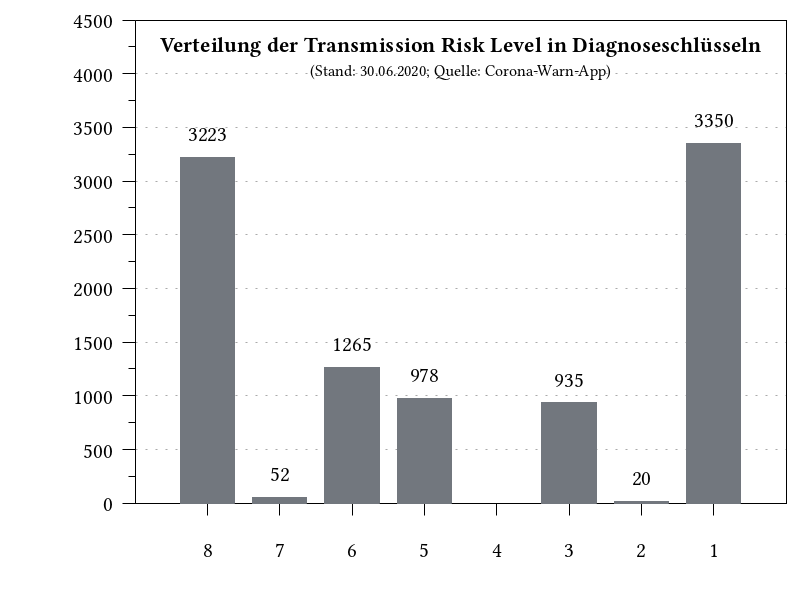
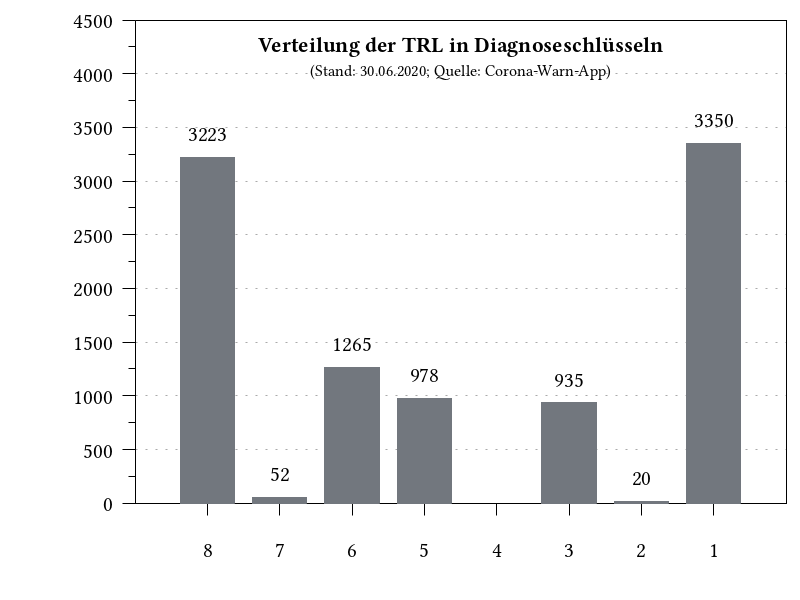
use abbreviation for TRL

Changed region(s): [[0.1875, 0.06, 0.9688, 0.09]]

diff --git a/index.html b/index.html
@@ -35,7 +35,7 @@
          <img src="/dka/plot_keys_sum.png" alt="" />
         </p>
         
-        <h2 id="TRL">Verteilung Transmission Risk Level in Diagnoseschlüsseln</h2>
+        <h2 id="TRL">Verteilung Transmission Risk Level (TRL) in Diagnoseschlüsseln</h2>
         <p>
          <img src="/dka/plot_TRL_histogram.png" alt="" />
          <img src="/dka/plot_TRL_histogram_relative.png" alt="" />

diff --git a/README.md b/README.md
@@ -29,7 +29,7 @@ Täglich                           |  Summe
 :--------------------------------:|:----------------------------------:
  ![](plot_keys.png)               |  ![](plot_keys_sum.png)
  
-### Verteilung Transmission Risk Level in Diagnoseschlüsseln
+### Verteilung Transmission Risk Level (TRL) in Diagnoseschlüsseln
 Absolut                           |  Relativ
 :--------------------------------:|:----------------------------------:
 ![](plot_TRL_histogram.png)       | ![](plot_TRL_histogram_relative.png)
